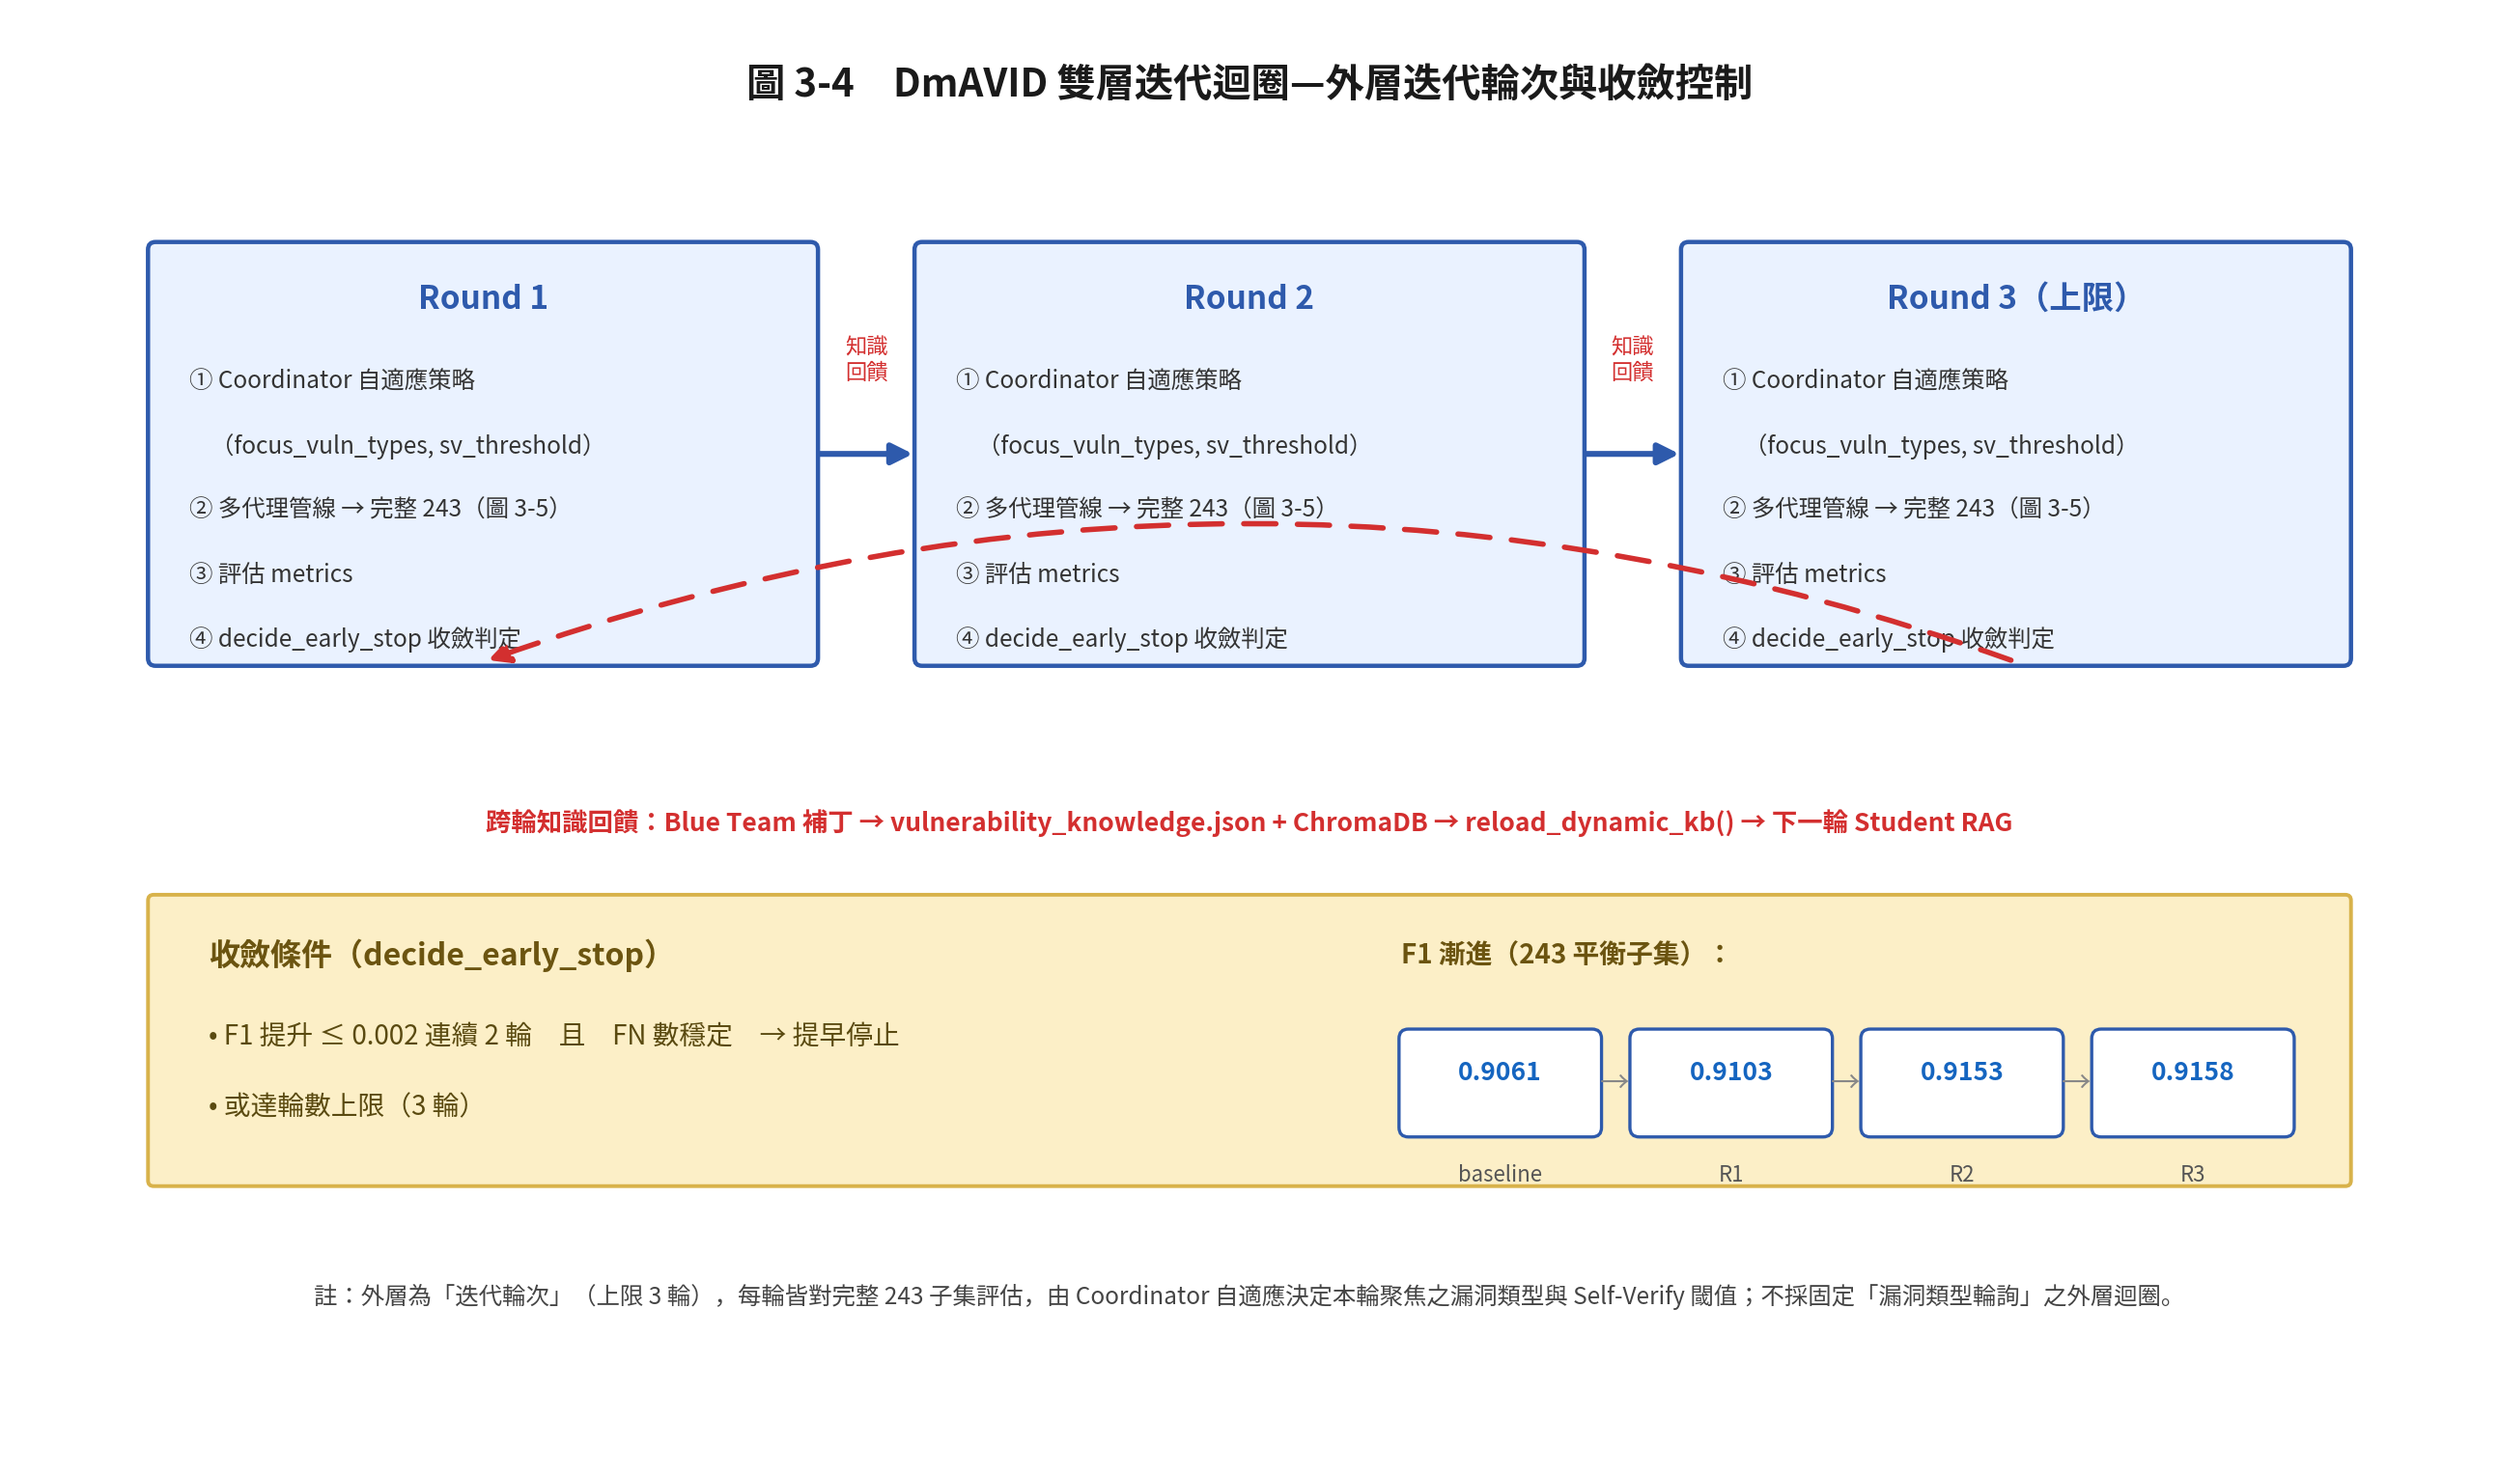
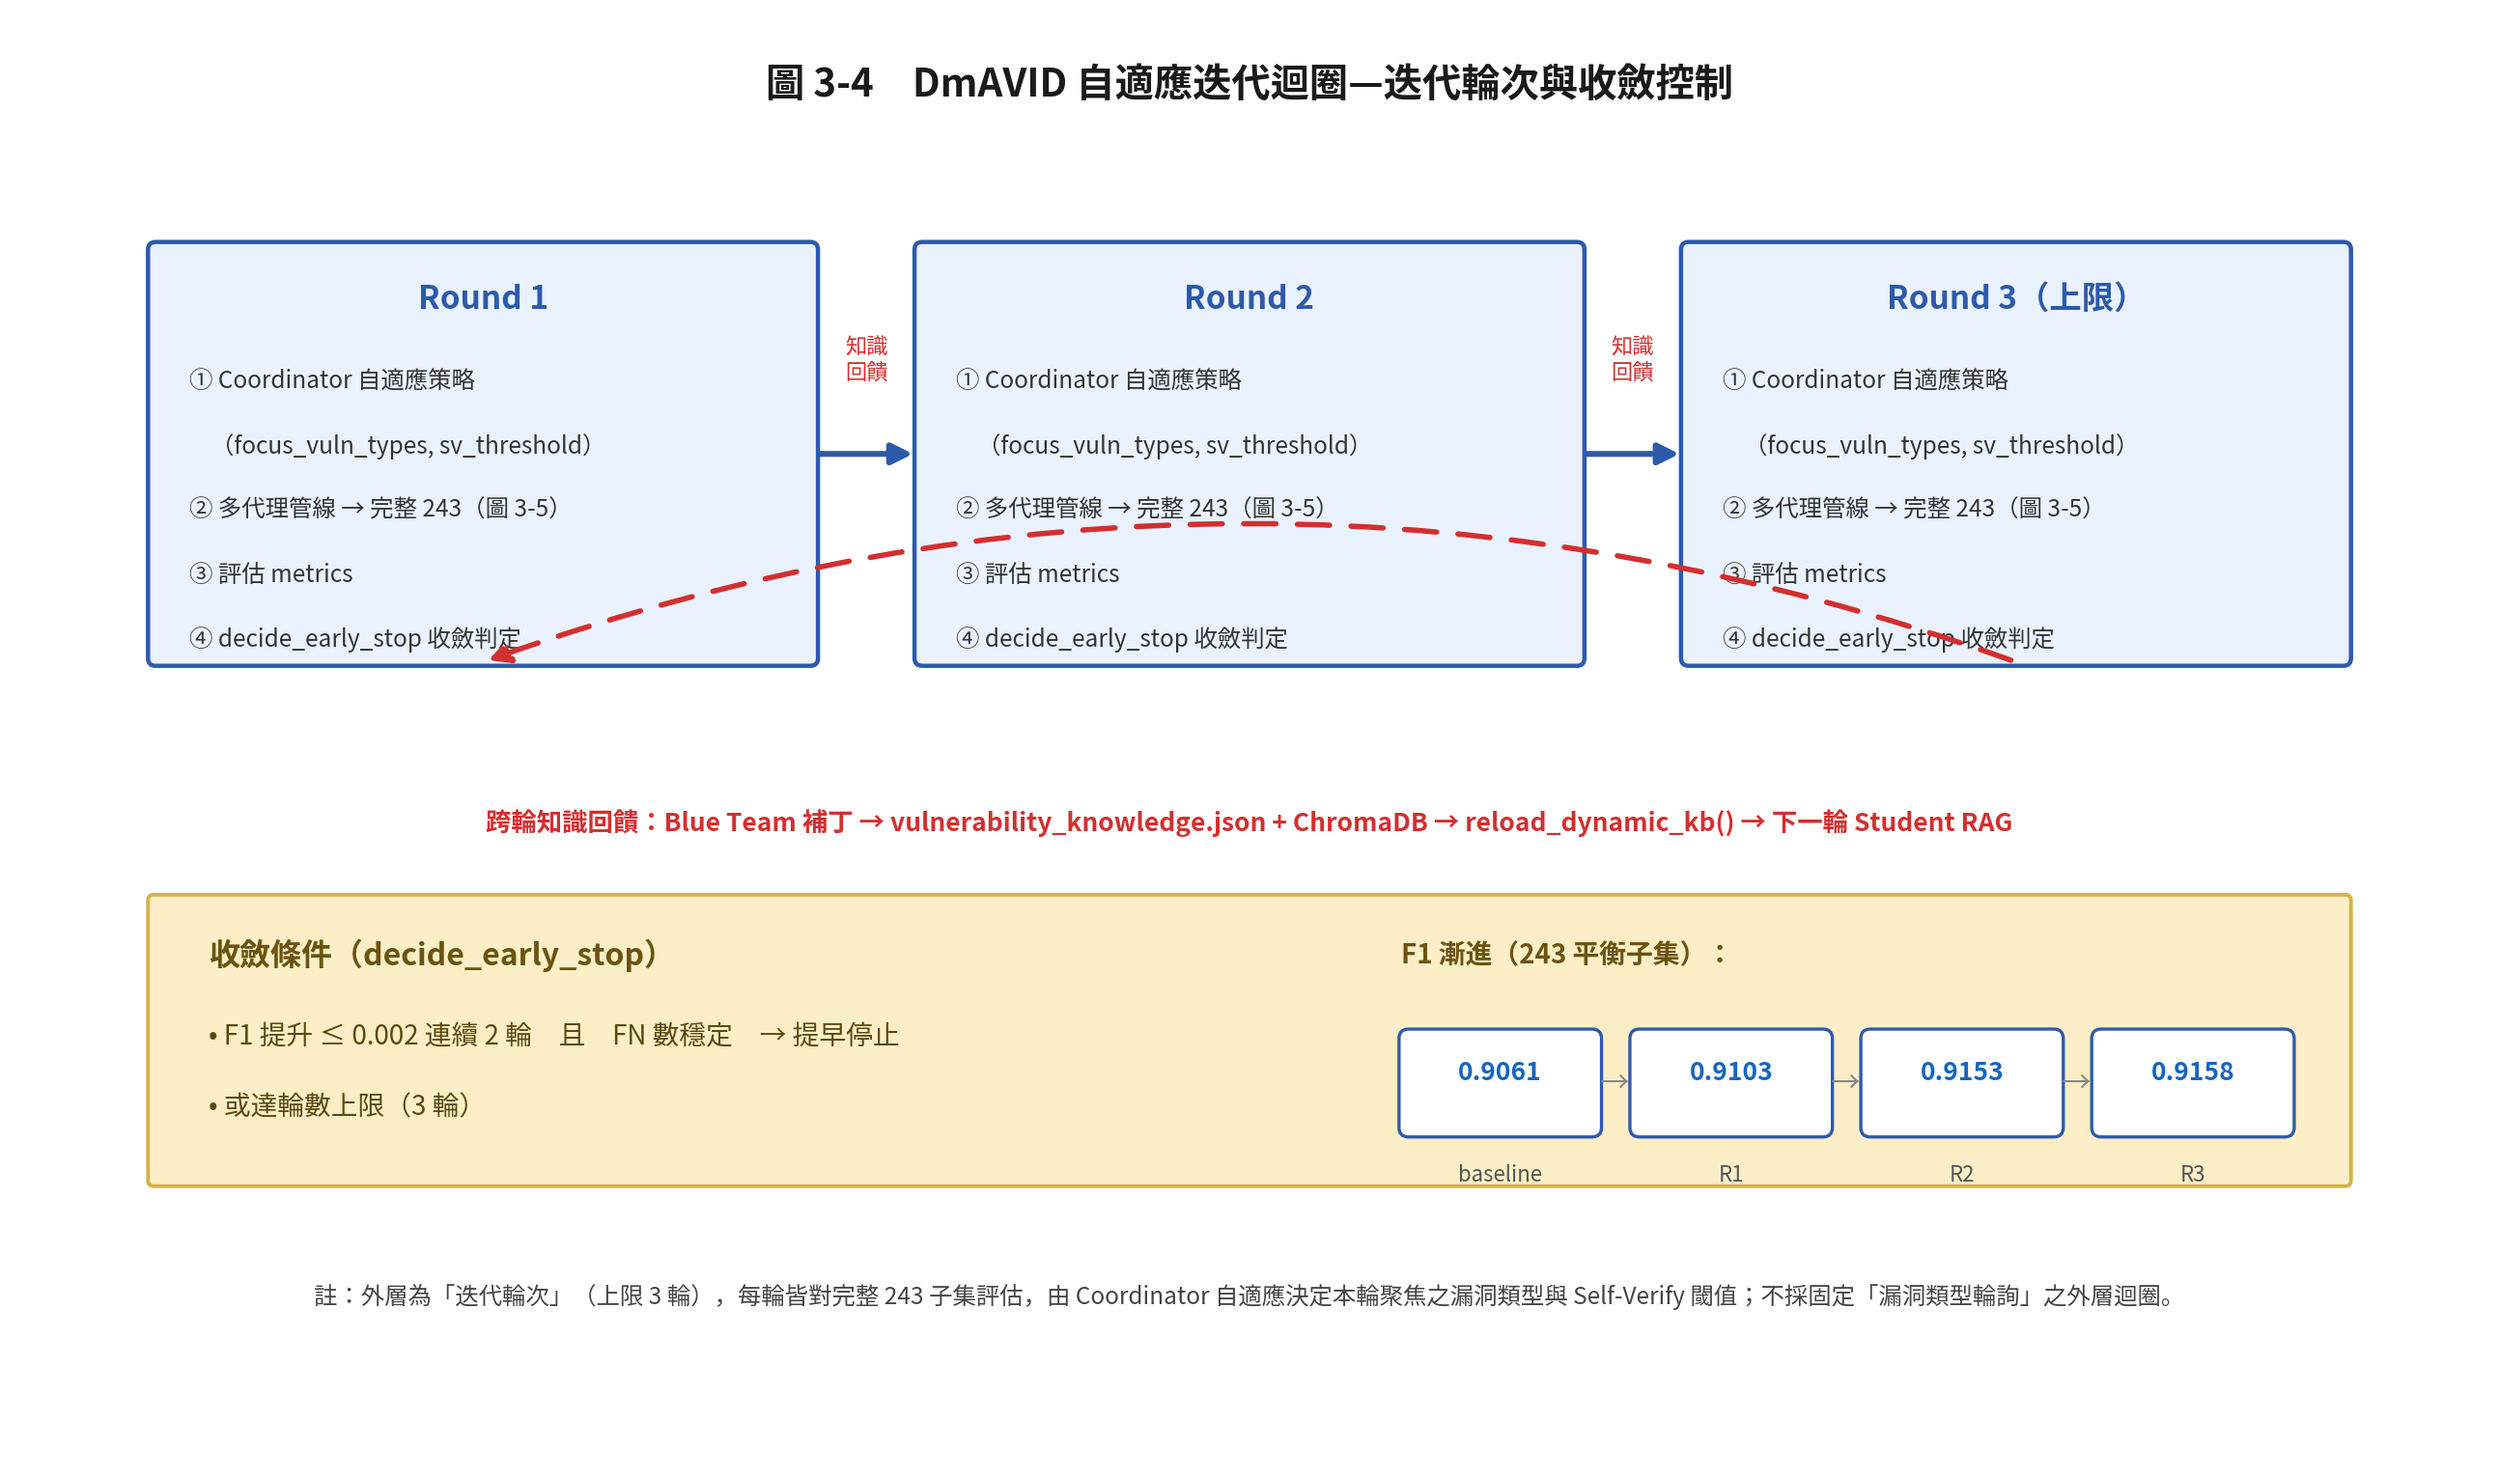
🔧 調整：流程圖術語「雙層迭代迴圈」→「自適應迭代迴圈」對齊論文 v11

Changed region(s): [[0.2782, 0.0307, 0.711, 0.0922]]

diff --git a/scripts/92_thesis_flow_charts.py b/scripts/92_thesis_flow_charts.py
@@ -110,7 +110,7 @@ def build_fig32():
     box(ax, 6.3, 7.85, 2.5, 0.92, "Red Team", C_AGENT_R, 10, True, sub="3 結構突變策略")
     box(ax, 9.05, 7.85, 2.1, 0.92, "Blue Team", C_AGENT_B, 10, True, sub="FN 分析／合成補丁")
     arrow(ax, 6, 7.85, 6, 7.45)
-    box(ax, 2.9, 6.7, 6.2, 0.72, "輪次迭代（上限 3 輪）× 單輪多代理管線", C_LOOP, 11, True,
+    box(ax, 2.9, 6.7, 6.2, 0.72, "自適應迭代迴圈（上限 3 輪）", C_LOOP, 11, True,
         sub="Coordinator 每輪自適應 focus；每輪評完整 243（詳見圖 3-4 / 圖 3-5）")
     arrow(ax, 6, 6.7, 6, 6.3)
     box(ax, 0.8, 5.3, 5.0, 0.82, "Blue Team 知識合成", C_KB, 10, True,
@@ -183,7 +183,7 @@ def build_fig33():
         arrow(ax, x+1.375, 6.7, x+1.375, 6.12, color="#8a8a8a", lw=1.4, style="<|-|>")
 
     # interaction band
-    frame(ax, 0.4, 2.0, 12.2, 2.0, "代理間互動（輪次迭代 × 多代理管線）")
+    frame(ax, 0.4, 2.0, 12.2, 2.0, "代理間互動（自適應迭代迴圈 × 多代理管線）")
     flow = [("Teacher", C_AGENT_T), ("Student", C_AGENT_S), ("收集 FN", "#FFFFFF"),
             ("Red Team", C_AGENT_R), ("Foundry", C_SIDE), ("Blue Team", C_AGENT_B), ("Self-Verify", C_S3)]
     fw, fg = 1.5, 0.22; fx = 0.7
@@ -217,7 +217,7 @@ def build_fig33():
 # ═════════════════════════════════════════════════════════════════════════════
 def build_fig34():
     fig, ax = plt.subplots(figsize=(13, 7.6)); ax.set_xlim(0, 13); ax.set_ylim(0, 7.6); ax.axis("off")
-    ax.text(6.5, 7.25, "圖 3-4　DmAVID 雙層迭代迴圈—外層迭代輪次與收斂控制", ha="center", va="center",
+    ax.text(6.5, 7.25, "圖 3-4　DmAVID 自適應迭代迴圈—迭代輪次與收斂控制", ha="center", va="center",
             fontproperties=CJK_B, fontsize=14.5, color=INK)
 
     f1 = [("baseline","0.9061"), ("R1","0.9103"), ("R2","0.9153"), ("R3","0.9158")]
